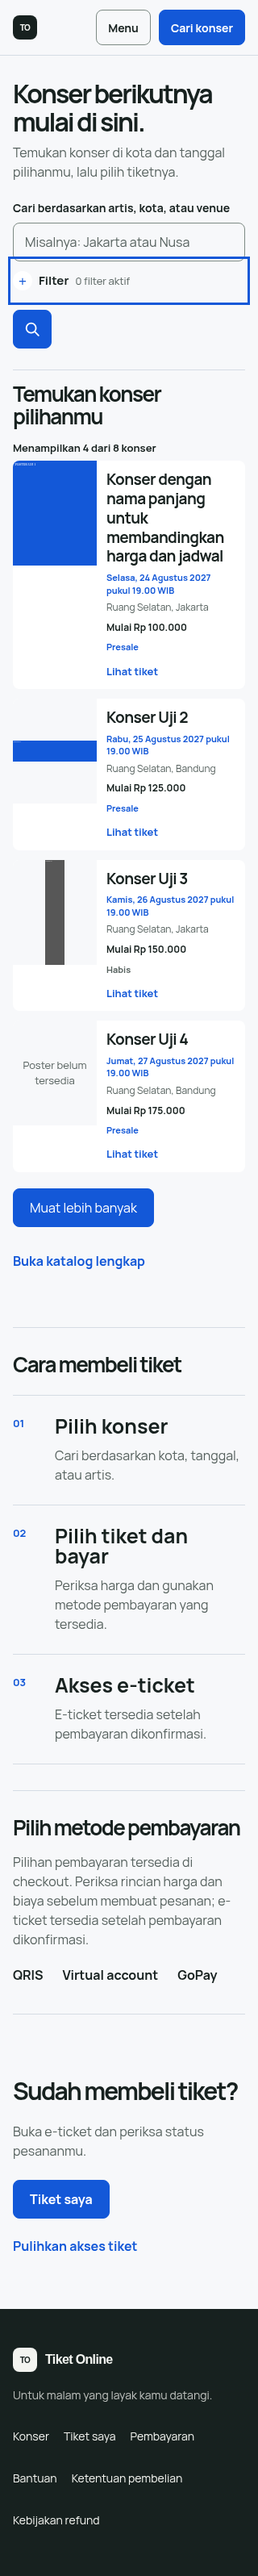
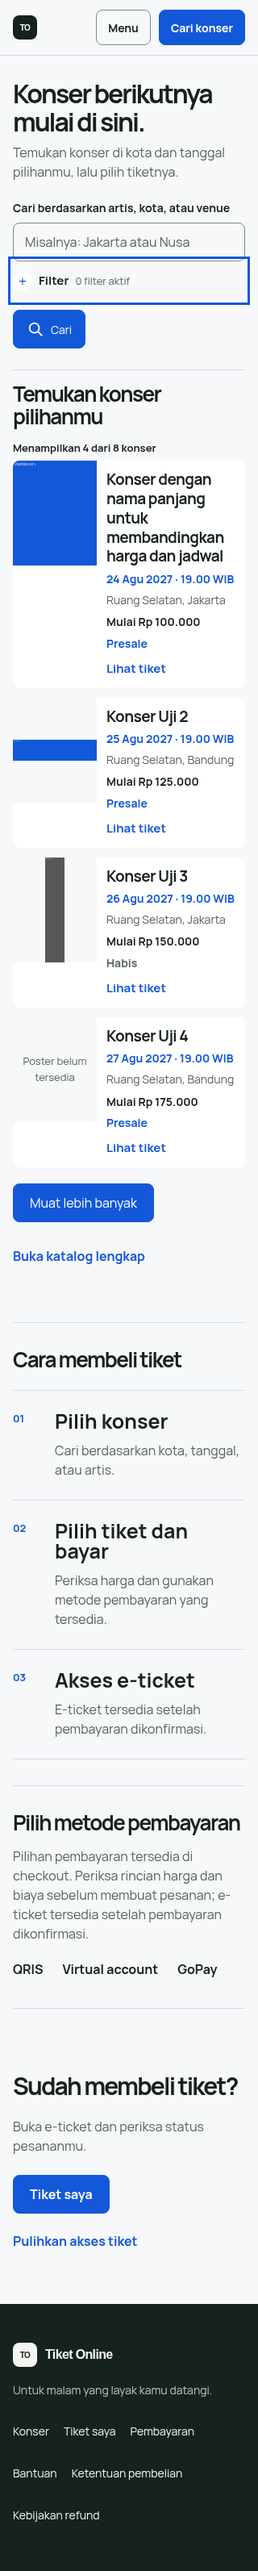
fix : redesign mobile device ui

diff --git a/frontend/src/styles/pages/konser.css b/frontend/src/styles/pages/konser.css
@@ -18,7 +18,7 @@
 .filter-chip { min-height: 44px; padding: 0 12px; border: 1px solid var(--control-line); border-radius: 999px; background: var(--surface); color: var(--ink); font: inherit; font-size: 13px; cursor: pointer; }
 .filter-chip span { margin-left: 6px; color: var(--accent); font-size: 17px; }
 .filter-tools { display: flex; align-items: flex-start; gap: 20px; margin-bottom: 8px; }
-.catalog-form .search-actions { flex: 0 0 170px; }
+.catalog-form .search-actions { flex: 0 0 220px; }
 .filters { min-width: 0; flex: 1; }
 .filters summary { min-height: 48px; display: flex; align-items: center; flex-wrap: wrap; gap: 6px 16px; cursor: pointer; list-style: none; }
 .filters summary::-webkit-details-marker { display: none; }
@@ -59,13 +59,13 @@
 .poster-fallback { position: absolute; inset: 0; display: grid; place-items: center; padding: 10px; color: var(--muted); text-align: center; font-size: 13px; }
 .concert-card.is-sold-out .concert-poster { filter: grayscale(1) contrast(.9); }
 .concert-card-body { display: flex; min-width: 0; flex-direction: column; align-items: flex-start; padding: 14px; }
-.concert-meta, .concert-change { margin: 0 0 10px; color: var(--accent); font-size: 12px; font-weight: 700; line-height: 1.4; }
+.concert-meta, .concert-change { margin: 0 0 10px; color: var(--accent); font-size: 14px; font-weight: 700; line-height: 1.4; }
 .concert-change { margin: 6px 0 0; }
-.concert-action { margin-top: auto; padding-top: 10px; color: var(--accent); font-size: 13px; font-weight: 700; }
+.concert-action { margin-top: auto; padding-top: 10px; color: var(--accent); font-size: 15px; font-weight: 700; }
 .concert-card h3 { margin: 0 0 6px; font-size: 20px; line-height: 1.25; letter-spacing: -.03em; overflow-wrap: anywhere; }
-.concert-venue, .concert-price { margin: 0; color: var(--muted); font-size: 13px; line-height: 1.4; }
+.concert-venue, .concert-price { margin: 0; color: var(--muted); font-size: 14px; line-height: 1.4; }
 .concert-price { margin-top: 8px; color: var(--ink); font-weight: 700; }
-.concert-status { display: inline-flex; min-height: 26px; align-items: center; margin-top: 0; padding-top: 6px; color: var(--accent); font-size: 12px; font-weight: 700; }
+.concert-status { display: inline-flex; min-height: 26px; align-items: center; margin-top: 0; padding-top: 6px; color: var(--accent); font-size: 14px; font-weight: 700; }
 .is-sold-out .concert-status { color: var(--muted); }
 .catalog-empty { max-width: 620px; padding: 30px 0; border-top: 1px solid var(--line); }
 .catalog-empty p { margin: 0 0 14px; color: var(--muted); }
@@ -81,7 +81,7 @@
   .filter-tools { gap: 8px; flex-direction: column; }
   .catalog-search-row { flex-wrap: wrap; }
   .catalog-search-row > input { flex-basis: 240px; }
-  .catalog-form .search-actions { flex: 0 0 170px; }
+  .catalog-form .search-actions { flex: 0 0 220px; }
   .filters { width: 100%; }
   .filters summary { gap: 5px 8px; }
   .filters summary span { flex: 1; }
@@ -92,9 +92,8 @@
   .concert-card-link { display: grid; grid-template-columns: 104px minmax(0, 1fr); min-height: 154px; }
   .concert-poster-frame { align-self: start; }
   .concert-card-body { min-height: 154px; padding: 12px; }
-  .concert-meta { margin-bottom: 6px; font-size: 11px; }
+  .concert-meta { margin-bottom: 6px; }
   .concert-card h3 { font-size: 19px; }
-  .concert-venue, .concert-price { font-size: 12px; }
-  .concert-status { padding-top: 6px; font-size: 11px; }
+  .concert-status { padding-top: 6px; }
 }
 @media (prefers-reduced-motion: reduce) { .concert-card:hover { transform: none; } }

diff --git a/frontend/src/pages/public/ConcertCatalogPage.svelte b/frontend/src/pages/public/ConcertCatalogPage.svelte
@@ -96,7 +96,7 @@
     <form class="catalog-form" role="search" onsubmit={search}>
     <div class="results">
       <div class="catalog-search"><label for="concert-query">Cari konser</label><div class="catalog-search-row"><input bind:this={input} bind:value={query} id="concert-query" name="query" type="search" autocomplete="off" placeholder="Artis, venue, atau kota" />
-      <div class="search-actions"><button class="button search-submit" type="submit" aria-label="Cari" title="Cari"><svg width="22" height="22" viewBox="0 0 24 24" fill="none" stroke="currentColor" stroke-width="2" stroke-linecap="round" aria-hidden="true"><circle cx="10.5" cy="10.5" r="6.5" /><path d="m16 16 4.5 4.5" /></svg></button>{#if searched}<button class="button reset-filters" type="button" onclick={reset}>Reset filter</button>{/if}</div>
+      <div class="search-actions"><button class="button search-submit" type="submit"><svg width="22" height="22" viewBox="0 0 24 24" fill="none" stroke="currentColor" stroke-width="2" stroke-linecap="round" aria-hidden="true"><circle cx="10.5" cy="10.5" r="6.5" /><path d="m16 16 4.5 4.5" /></svg>Cari</button>{#if searched}<button class="button reset-filters" type="button" onclick={reset}>Reset filter</button>{/if}</div>
       </div></div>
       {#if loading}<p class="results-count" role="status" aria-live="polite">Memuat katalog konser...</p>{:else if error}<div class="empty-state" role="alert"><p>{error}</p><button class="text-button" type="button" onclick={() => load()}>Coba lagi</button></div>{:else}<div class="results-topline"><p class="sample-note">Katalog terbaru.</p><p class="results-count" aria-live="polite">{matches.length ? `${matches.length} konser ditemukan` : "Tidak ada konser ditemukan"}</p></div>{/if}
     </div>

diff --git a/frontend/src/lib/concerts.ts b/frontend/src/lib/concerts.ts
@@ -24,6 +24,10 @@ function tiers(status: TicketStatus): TicketTier[] {
 
 export const formatEventDate = new Intl.DateTimeFormat("id-ID", { dateStyle: "full", timeStyle: "short", timeZone: "Asia/Jakarta" });
 export function eventDate(startsAt: string | null | undefined) { if (!startsAt || !Number.isFinite(Date.parse(startsAt))) return "Jadwal belum diumumkan"; return `${formatEventDate.format(new Date(startsAt))} WIB`; }
+const formatCardDay = new Intl.DateTimeFormat("id-ID", { day: "numeric", month: "short", year: "numeric", timeZone: "Asia/Jakarta" });
+const formatCardTime = new Intl.DateTimeFormat("id-ID", { hour: "2-digit", minute: "2-digit", timeZone: "Asia/Jakarta" });
+/** Compact card date, e.g. "24 Agu 2027 · 19.30 WIB". */
+export function cardDate(startsAt: string | null | undefined) { if (!startsAt || !Number.isFinite(Date.parse(startsAt))) return "Jadwal belum diumumkan"; const date = new Date(startsAt); return `${formatCardDay.format(date)} · ${formatCardTime.format(date)} WIB`; }
 
 function concert(id: string, artist: string, city: string, venue: string, startsAt: string, genre: Genre, price: number, status: TicketStatus): Concert {
   return { id, artist, city, venue, address: `Jl. Musik Raya, ${city}`, date: eventDate(startsAt), startsAt, genre, price, status, image: `https://picsum.photos/seed/${id}/900/1100`, description: `${artist} hadir dalam konser contoh dengan pilihan tiket untuk area panggung dan penonton.`, lineup: [artist, "Pembuka Sore", "Tamu Spesial"], zones, ticketTiers: tiers(status).map((tier) => tier.name === "Festival" ? { ...tier, price } : tier) };

diff --git a/frontend/src/pages/public/MyTicketsPage.svelte b/frontend/src/pages/public/MyTicketsPage.svelte
@@ -18,7 +18,7 @@
   const groups = $derived(groupBuyerOrders(orders));
   const followups = $derived(orders.filter(({ detail }) => detail?.currentEvent?.status === "POSTPONED" || detail?.status === "REFUND_PENDING" || detail?.refundRight?.requested && detail.refund?.status !== "SUCCEEDED" || detail?.refund && detail.refund.status !== "SUCCEEDED"));
   const storageFailed = $derived(orders.some((order) => order.accessSaved === false));
-  const categories = [{ id: "active", label: "Tiket aktif" }, { id: "pending", label: "Menunggu pembayaran" }, { id: "history", label: "Riwayat" }] as const;
+  const categories = [{ id: "active", label: "Aktif" }, { id: "pending", label: "Belum dibayar" }, { id: "history", label: "Riwayat" }] as const;
 
   async function refreshOrder(order: BuyerOrderTickets) {
     const id = order.access.orderId;
@@ -169,7 +169,8 @@
     .my-ticket-mark { display: none; }
     .my-ticket-card-body { padding: 18px; }
     .ticket-categories { gap: 6px; }
-    .ticket-categories button { padding: 10px; font-size: 14px; }
+    .ticket-categories { display: grid; grid-template-columns: repeat(3, minmax(0, 1fr)); }
+    .ticket-categories button { justify-content: center; min-height: 48px; padding: 8px 6px; font-size: 14px; text-align: center; }
     .my-order-actions .button { width: 100%; }
   }
 </style>

diff --git a/frontend/src/components/ConcertCard.svelte b/frontend/src/components/ConcertCard.svelte
@@ -1,5 +1,5 @@
 <script lang="ts">
-  import { eventDate, formatRupiah, type Concert } from "../lib/concerts.ts";
+  import { cardDate, formatRupiah, type Concert } from "../lib/concerts.ts";
   import { canBuy, eventStatus } from "../lib/event-changes.ts";
   let { concert, featuredPoster = false }: { concert: Concert; featuredPoster?: boolean } = $props();
   const changedStatus = $derived(eventStatus(concert.currentEvent));
@@ -16,7 +16,7 @@
     </div>
     <div class="concert-card-body">
       <h3>{concert.artist}</h3>
-      <p class="concert-meta">{eventDate(concert.currentEvent ? concert.currentEvent.startsAt : concert.startsAt)}</p>
+      <p class="concert-meta">{cardDate(concert.currentEvent ? concert.currentEvent.startsAt : concert.startsAt)}</p>
       <p class="concert-venue">{concert.venue}, {concert.city}</p>
       <p class="concert-price">{concert.ticketTiers.length ? `Mulai ${formatRupiah.format(Math.min(...concert.ticketTiers.map((tier) => tier.price)))}` : "Tiket belum tersedia"}</p>
       {#if changedStatus}<p class="concert-change">{changedStatus}</p>{/if}

diff --git a/frontend/src/pages/public/HomePage.svelte b/frontend/src/pages/public/HomePage.svelte
@@ -55,7 +55,7 @@
         </div>
       </details>
     </div>
-    <div class="search-actions"><button class="button search-submit" type="submit" aria-label="Cari" title="Cari"><svg width="22" height="22" viewBox="0 0 24 24" fill="none" stroke="currentColor" stroke-width="2" stroke-linecap="round" aria-hidden="true"><circle cx="10.5" cy="10.5" r="6.5" /><path d="m16 16 4.5 4.5" /></svg></button>{#if searched}<button class="button reset-filters" type="button" onclick={reset}>Reset filter</button>{/if}</div>
+    <div class="search-actions"><button class="button search-submit" type="submit"><svg width="22" height="22" viewBox="0 0 24 24" fill="none" stroke="currentColor" stroke-width="2" stroke-linecap="round" aria-hidden="true"><circle cx="10.5" cy="10.5" r="6.5" /><path d="m16 16 4.5 4.5" /></svg>Cari</button>{#if searched}<button class="button reset-filters" type="button" onclick={reset}>Reset filter</button>{/if}</div>
   </form>
 </section>
 <section class="event-section shell" id="konser" aria-labelledby="event-title">

diff --git a/frontend/src/styles/pages/panduan.css b/frontend/src/styles/pages/panduan.css
@@ -22,8 +22,8 @@
 @keyframes guide-reveal { from { opacity: 0; transform: translateY(-4px); } to { opacity: 1; transform: translateY(0); } }
 @media (prefers-reduced-motion: reduce) { .accordion-panel { animation: none; } }
 @media (max-width: 767px) {
-  .guide-hero { grid-template-columns: 1fr; gap: 24px; padding-block: 52px 28px; }
-  .guide-hero h1 { font-size: clamp(44px, 13vw, 64px); }
+  .guide-hero { grid-template-columns: 1fr; gap: 12px; padding-block: 32px 20px; }
+  .guide-hero h1 { font-size: clamp(34px, 10vw, 44px); line-height: 1.05; }
   .guide-intro { margin: 0; font-size: 16px; }
   .guide-index { grid-template-columns: repeat(2, minmax(0, 1fr)); }
   .guide-index a { min-width: 0; min-height: 58px; overflow-wrap: anywhere; }

diff --git a/frontend/src/styles/public.css b/frontend/src/styles/public.css
@@ -52,7 +52,7 @@
 .public-site .reset-filters:hover { border-color: var(--accent); background: var(--accent); color: var(--accent-ink); }
 .public-site .search-actions { display: flex; width: 100%; min-width: 0; align-items: flex-start; gap: 10px; }
 .public-site .search-actions .button { min-width: 0; min-height: 48px; padding: 10px 16px; font-size: 14px; }
-.public-site .search-actions .search-submit { flex: 0 0 48px; width: 48px; height: 48px; padding: 0; }
+.public-site .search-actions .search-submit { flex: 0 0 auto; gap: 8px; height: 48px; }
 .public-site h1 { overflow-wrap: anywhere; }
 .public-site :where(.wordmark) { font-family: Arial, Helvetica, sans-serif; }
 .public-site :where(.my-tickets-heading h1) { overflow-wrap: anywhere; }

diff --git a/frontend/src/lib/concerts.test.ts b/frontend/src/lib/concerts.test.ts
@@ -1,5 +1,12 @@
 import { expect, test } from "bun:test";
-import { concerts, getConcertById, parseCheckoutQuantities } from "./concerts.ts";
+import { cardDate, concerts, getConcertById, parseCheckoutQuantities } from "./concerts.ts";
+
+test("formats compact card dates in WIB", () => {
+  expect(cardDate("2027-08-24T19:30:00+07:00")).toBe("24 Agu 2027 · 19.30 WIB");
+  expect(cardDate("2027-08-24T23:30:00Z")).toBe("25 Agu 2027 · 06.30 WIB");
+  expect(cardDate(null)).toBe("Jadwal belum diumumkan");
+  expect(cardDate("bukan tanggal")).toBe("Jadwal belum diumumkan");
+});
 
 test("resolves unique URL-safe concert IDs", () => {
   expect(new Set(concerts.map((concert) => concert.id)).size).toBe(concerts.length);

diff --git a/frontend/src/styles/pages/index.css b/frontend/src/styles/pages/index.css
@@ -62,7 +62,7 @@
 @media (max-width: 767px) { .home-filter-fields { grid-template-columns: 1fr; gap: 12px; } }
 
 @media (min-width: 1024px) {
-  .event-search { display: grid; grid-template-columns: minmax(0, 1fr) minmax(0, 1.8fr) 170px; gap: 16px; max-width: none; }
+  .event-search { display: grid; grid-template-columns: minmax(0, 1fr) minmax(0, 1.8fr) 220px; gap: 16px; max-width: none; }
   .event-search .filters[open] summary { display: none; }
   .event-search .filter-tools { margin: 0; align-items: flex-end; }
   .home-filter-fields { grid-template-columns: minmax(0, .8fr) minmax(0, 2fr); gap: 16px; padding: 0; }

diff --git a/frontend/src/pages/public/GuidePage.svelte b/frontend/src/pages/public/GuidePage.svelte
@@ -34,7 +34,7 @@
 <section class="guide-hero shell" aria-labelledby="guide-title">
   <div>
     <p class="eyebrow">PANDUAN TIKET</p>
-    <h1 id="guide-title">Semua yang perlu kamu tahu sebelum datang.</h1>
+    <h1 id="guide-title">Panduan tiket dan konser</h1>
   </div>
   <p class="guide-intro">Temukan cara mengakses tiket, menyelesaikan pembayaran, dan menyiapkan QR sebelum tiba di gate.</p>
 </section>

diff --git a/frontend/scripts/buyer-tickets-ui-check.py b/frontend/scripts/buyer-tickets-ui-check.py
@@ -94,12 +94,12 @@ async def main():
             page = await context.new_page()
             page.on('pageerror', lambda error: errors.append(str(error)))
             await page.goto(BASE + '/tiket-saya')
-            active = page.get_by_role('region', name='Tiket aktif', exact=True)
+            active = page.get_by_role('region', name='Aktif', exact=True)
             review = page.get_by_role('region', name='Perlu diperiksa', exact=True)
             await expect(active.locator('article')).to_have_count(2)
             await expect(active.locator('.my-ticket-mark')).to_have_text(['E-ticket', 'E-ticket'])
             await expect(review.locator('article')).to_have_count(4)
-            await expect(page.get_by_role('button', name='Tiket aktif 2', exact=True)).to_have_attribute('aria-pressed', 'true')
+            await expect(page.get_by_role('button', name='Aktif 2', exact=True)).to_have_attribute('aria-pressed', 'true')
             await expect(active.get_by_text('2 tiket dipesan · 1 dapat digunakan', exact=True)).to_be_visible()
             await audit(page)
             await page.screenshot(path=str(OUTPUT / f'active-{width}.png'), full_page=True)
@@ -107,10 +107,10 @@ async def main():
             await audit(page)
             await page.screenshot(path=str(OUTPUT / f'active-dark-{width}.png'), full_page=True)
             await page.emulate_media(color_scheme='light')
-            await page.get_by_role('button', name='Menunggu pembayaran 4', exact=True).focus()
+            await page.get_by_role('button', name='Belum dibayar 4', exact=True).focus()
             await page.keyboard.press('Space')
-            await expect(page.get_by_role('button', name='Menunggu pembayaran 4', exact=True)).to_have_attribute('aria-pressed', 'true')
-            await page.get_by_role('button', name='Tiket aktif 2', exact=True).click()
+            await expect(page.get_by_role('button', name='Belum dibayar 4', exact=True)).to_have_attribute('aria-pressed', 'true')
+            await page.get_by_role('button', name='Aktif 2', exact=True).click()
 
             await expect(active.locator('a.button').first).to_have_attribute('href', '/tiket/' + tickets['single'][0]['id'])
             await active.locator('summary').click()
@@ -118,8 +118,8 @@ async def main():
             await active.get_by_role('link', name='Dimas Pratama · Tribune').click()
             await expect(page.locator('.pass-grid')).to_contain_text('Dimas Pratama')
             await page.goto(BASE + '/tiket-saya')
-            await page.get_by_role('button', name='Menunggu pembayaran 4', exact=True).click()
-            pending = page.get_by_role('region', name='Menunggu pembayaran', exact=True)
+            await page.get_by_role('button', name='Belum dibayar 4', exact=True).click()
+            pending = page.get_by_role('region', name='Belum dibayar', exact=True)
             await expect(pending.locator('article')).to_have_count(4)
             await expect(pending.locator('.my-ticket-mark')).to_have_text(['Menunggu pembayaran'] * 4)
             await expect(pending.get_by_role('button', name='Lanjutkan pembayaran', exact=True)).to_have_count(2)
@@ -140,17 +140,17 @@ async def main():
             state['fail'] = False
             await review.locator('article').filter(has_text='0000000000000000000d').get_by_role('button', name='Coba lagi').click()
             await expect(review.locator('article')).to_have_count(4)
-            await page.get_by_role('button', name='Menunggu pembayaran 4', exact=True).click()
+            await page.get_by_role('button', name='Belum dibayar 4', exact=True).click()
             # A late payment confirmation during the click moves categories without starting a payment.
             orders['pending']['status'] = 'PAID'
             tickets['pending'] = copy.deepcopy(tickets['multiple'])
             await pending.locator('article').filter(has_text='Konser pending').get_by_role('button', name='Lanjutkan pembayaran').click()
-            await expect(page.get_by_role('button', name='Tiket aktif 3', exact=True)).to_be_visible()
+            await expect(page.get_by_role('button', name='Aktif 3', exact=True)).to_be_visible()
             assert not state['posts']
             orders['pending']['status'] = 'PENDING'
             tickets['pending'] = []
             await page.goto(BASE + '/tiket-saya')
-            await page.get_by_role('button', name='Menunggu pembayaran 4', exact=True).click()
+            await page.get_by_role('button', name='Belum dibayar 4', exact=True).click()
             await pending.locator('article').filter(has_text='Konser pending').get_by_role('button', name='Lanjutkan pembayaran').click()
             await expect(page).to_have_url(BASE + '/pesanan/' + orders['pending']['id'] + '#pembayaran')
             await page.locator('#order-payment-method').select_option('GOPAY')
@@ -178,10 +178,10 @@ async def main():
             orders['pending']['status'] = 'PAID'
             tickets['pending'] = copy.deepcopy(tickets['multiple'])
             await page.goto(BASE + '/tiket-saya')
-            await expect(page.get_by_role('button', name='Tiket aktif 3', exact=True)).to_be_visible()
+            await expect(page.get_by_role('button', name='Aktif 3', exact=True)).to_be_visible()
             for item in tickets['pending']: item['usable'] = False
             await active.get_by_role('button', name='Periksa lagi').click()
-            await expect(page.get_by_role('button', name='Tiket aktif 2', exact=True)).to_be_visible()
+            await expect(page.get_by_role('button', name='Aktif 2', exact=True)).to_be_visible()
             await expect(page.get_by_role('button', name='Riwayat 6', exact=True)).to_be_visible()
             await page.goto(BASE + '/pesanan/' + orders['deadline']['id'] + '#pembayaran')
             await expect(page.locator('#pembayaran').get_by_role('button', name='Periksa status pembayaran')).to_be_visible()
